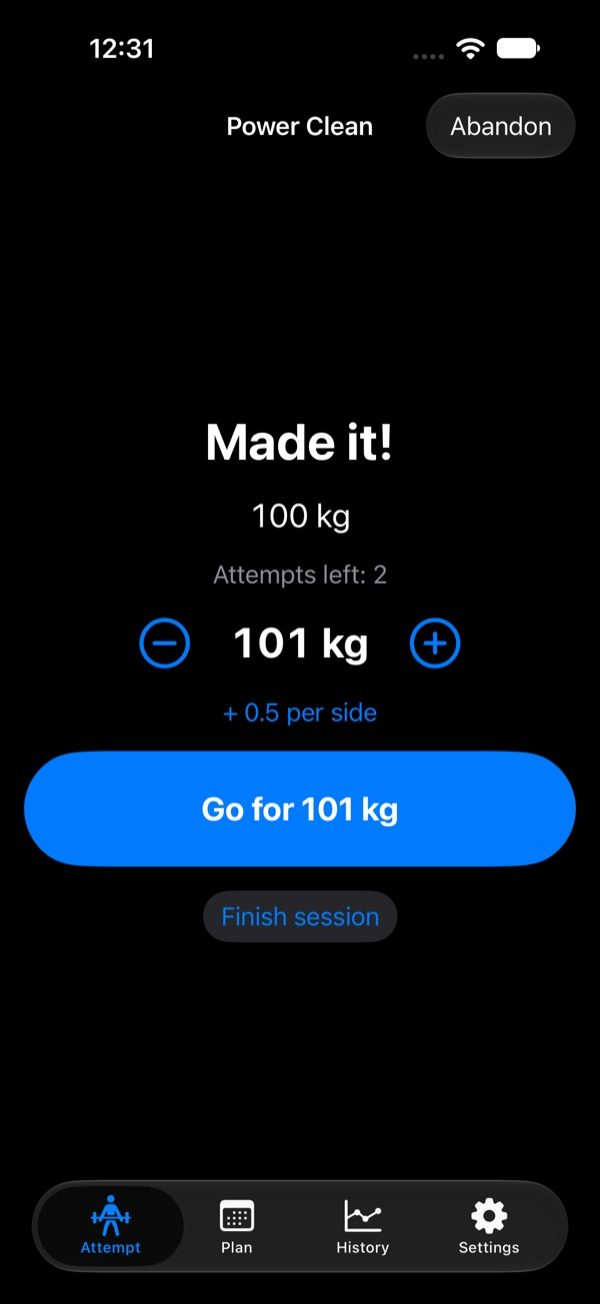
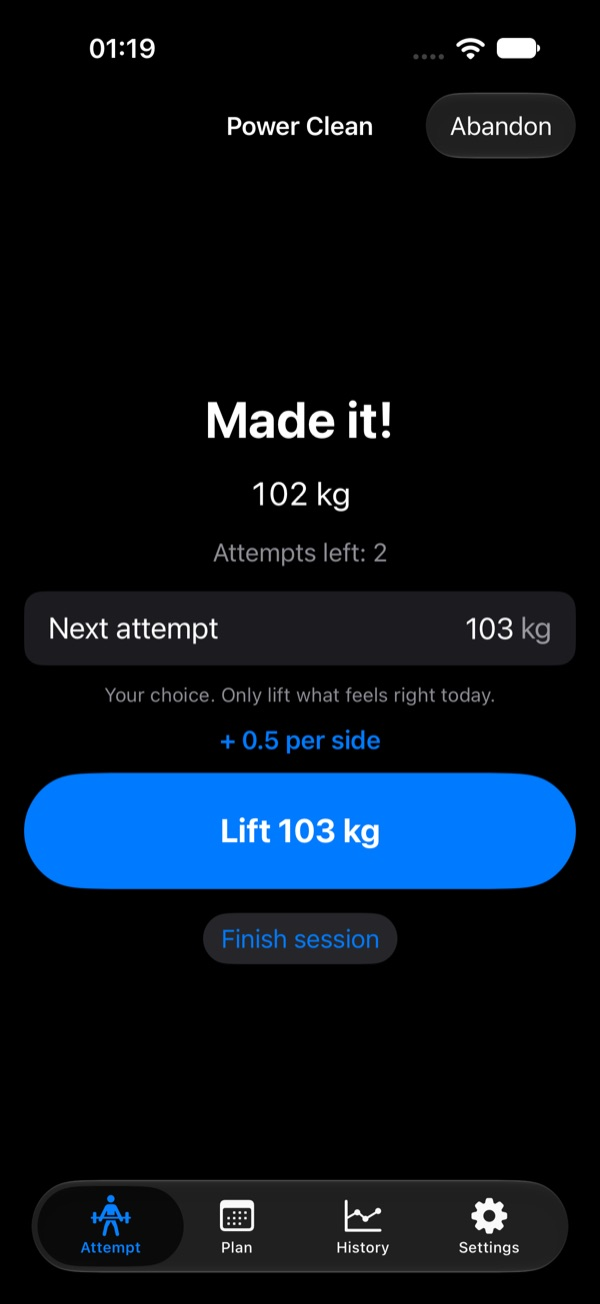
1rm: new screenshots from the current app; next-attempt screen instead of the duplicate rest screen

Changed region(s): [[0.03, 0.3067, 0.96, 0.7362], [0.15, 0.0307, 0.27, 0.0613]]

diff --git a/1rm/index.html b/1rm/index.html
@@ -31,7 +31,7 @@
             <a href="howto.html">See how it works</a>
           </div>
         </div>
-        <div class="phone"><img src="img/rest.jpg" width="600" height="1304" alt="Rest screen: a large clock counting down, and the next lift, 50 kg for 3, below it."></div>
+        <div class="phone"><img src="img/rest.jpg" width="600" height="1304" alt="Rest screen: a large clock counting down, and the next lift, 40 kg for 3, below it."></div>
       </section>
 
       <figure class="ladder">
@@ -96,7 +96,7 @@
         </div>
         <div class="shots">
           <div class="phone"><img src="img/load.jpg" width="600" height="1304" alt="Load screen: plates to take off in red, plates to put on in green." loading="lazy"></div>
-          <div class="phone"><img src="img/rest.jpg" width="600" height="1304" alt="Rest screen with the clock and the next lift." loading="lazy"></div>
+          <div class="phone"><img src="img/decision.jpg" width="600" height="1304" alt="After a made attempt: the next attempt, typed by the lifter, with the plates to add per side." loading="lazy"></div>
         </div>
       </section>
 
